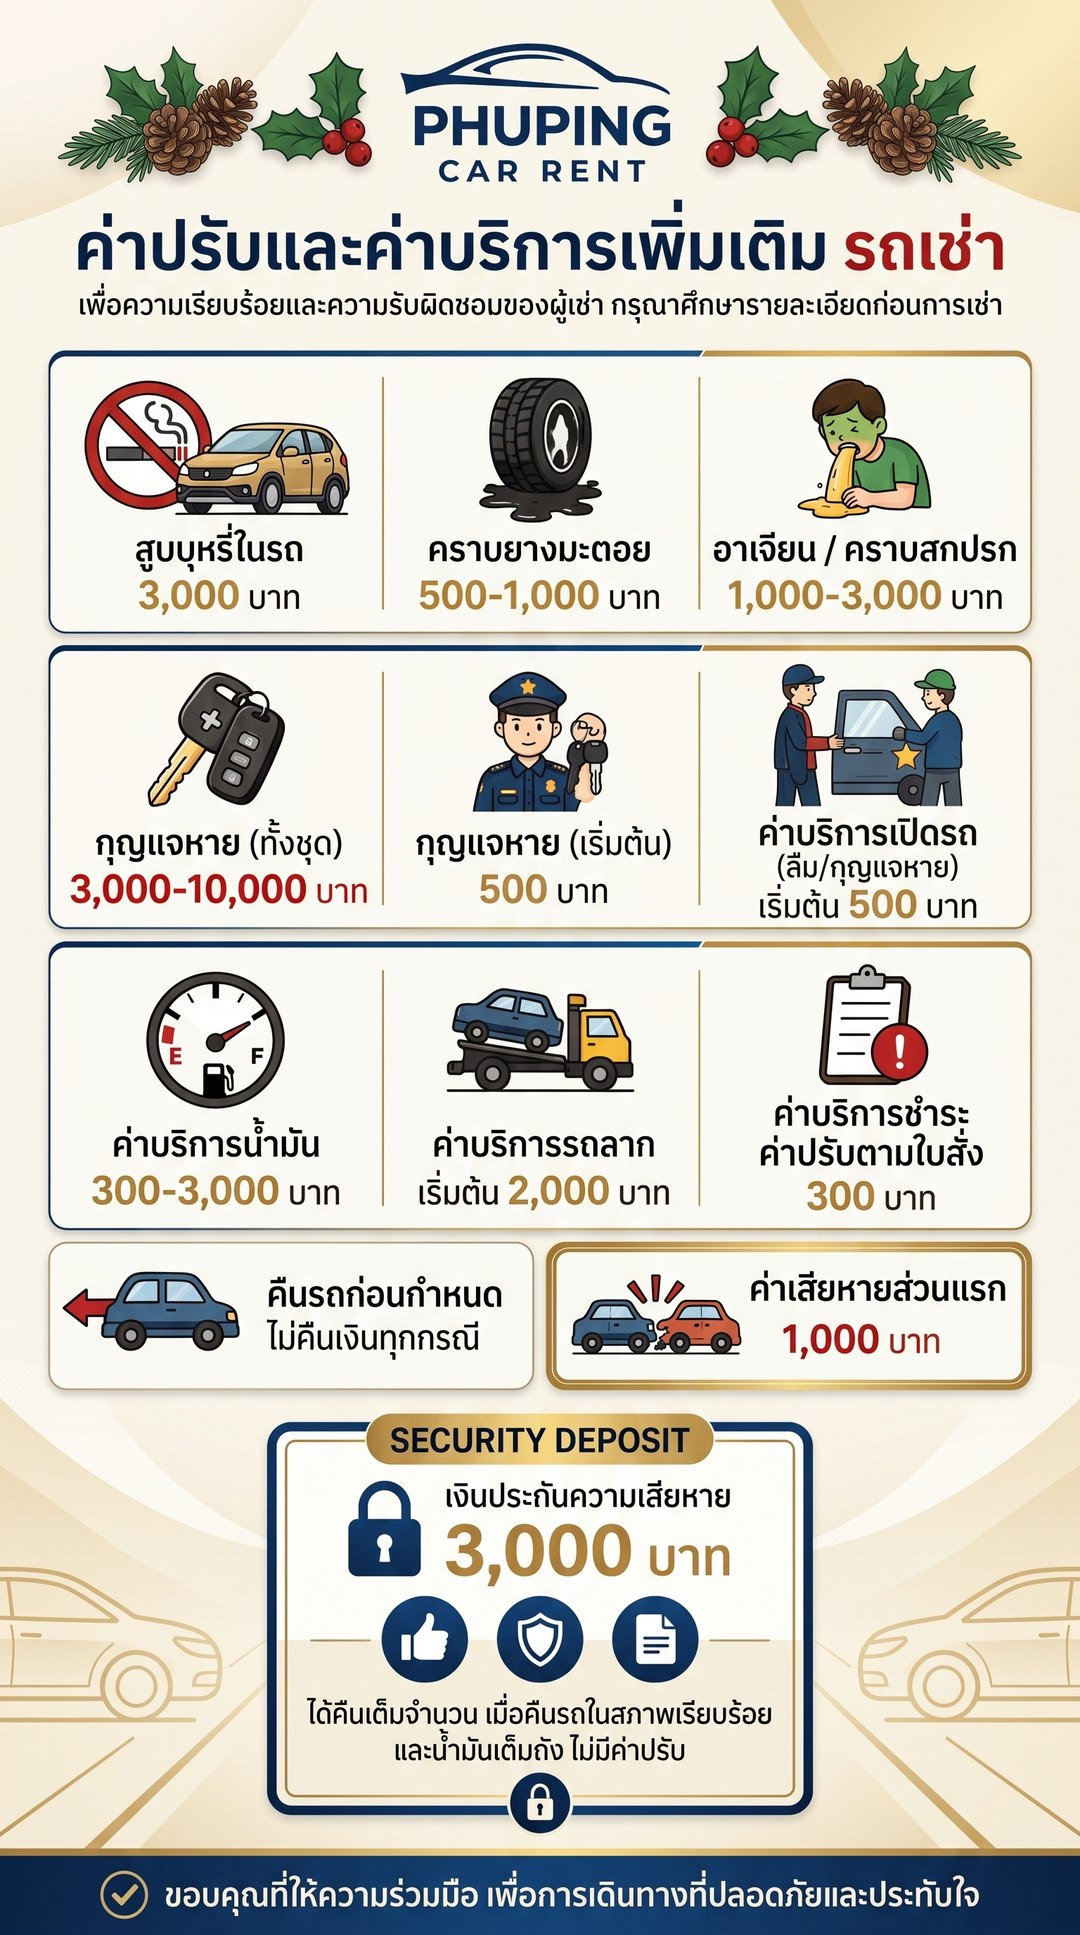
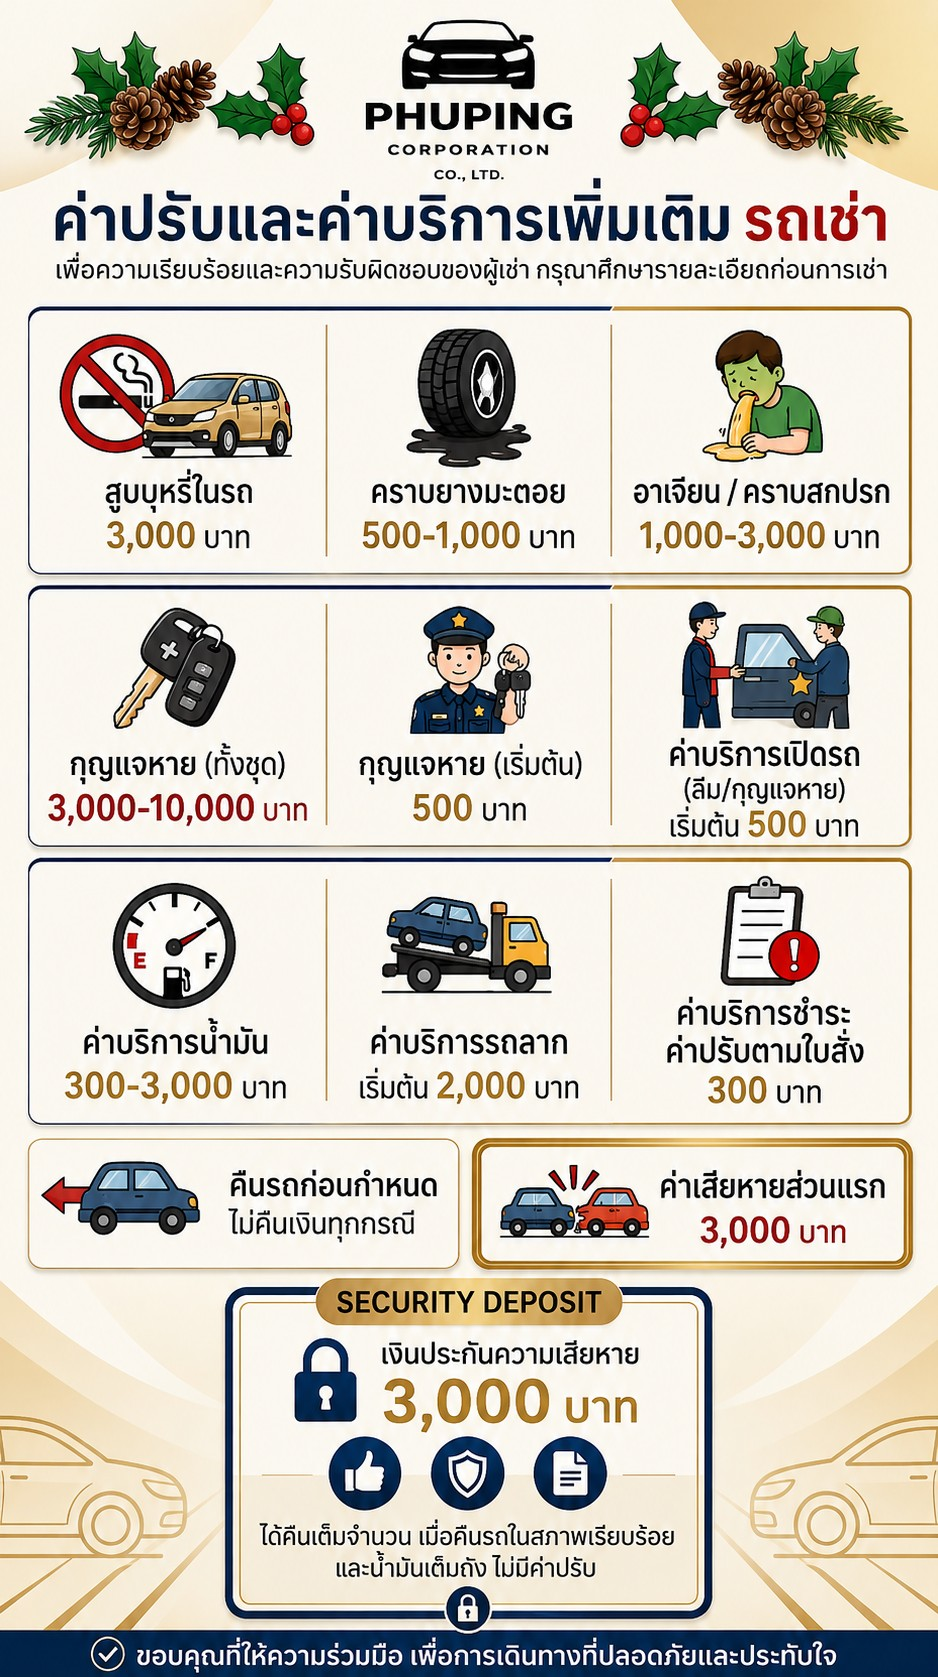
เปลี่ยน โปสเตอร์

diff --git a/lib/fees.ts b/lib/fees.ts
@@ -94,7 +94,7 @@ export const FEE_ITEMS: FeeItem[] = [
   {
     icon: "collision",
     title: "ค่าเสียหายส่วนแรก",
-    amount: "เริ่มต้น 1,000 บาท",
+    amount: "3,000 บาท",
     note: "กรณีเป็นฝ่ายผิด หรือไม่มีคู่กรณี",
     highlight: true,
   },
